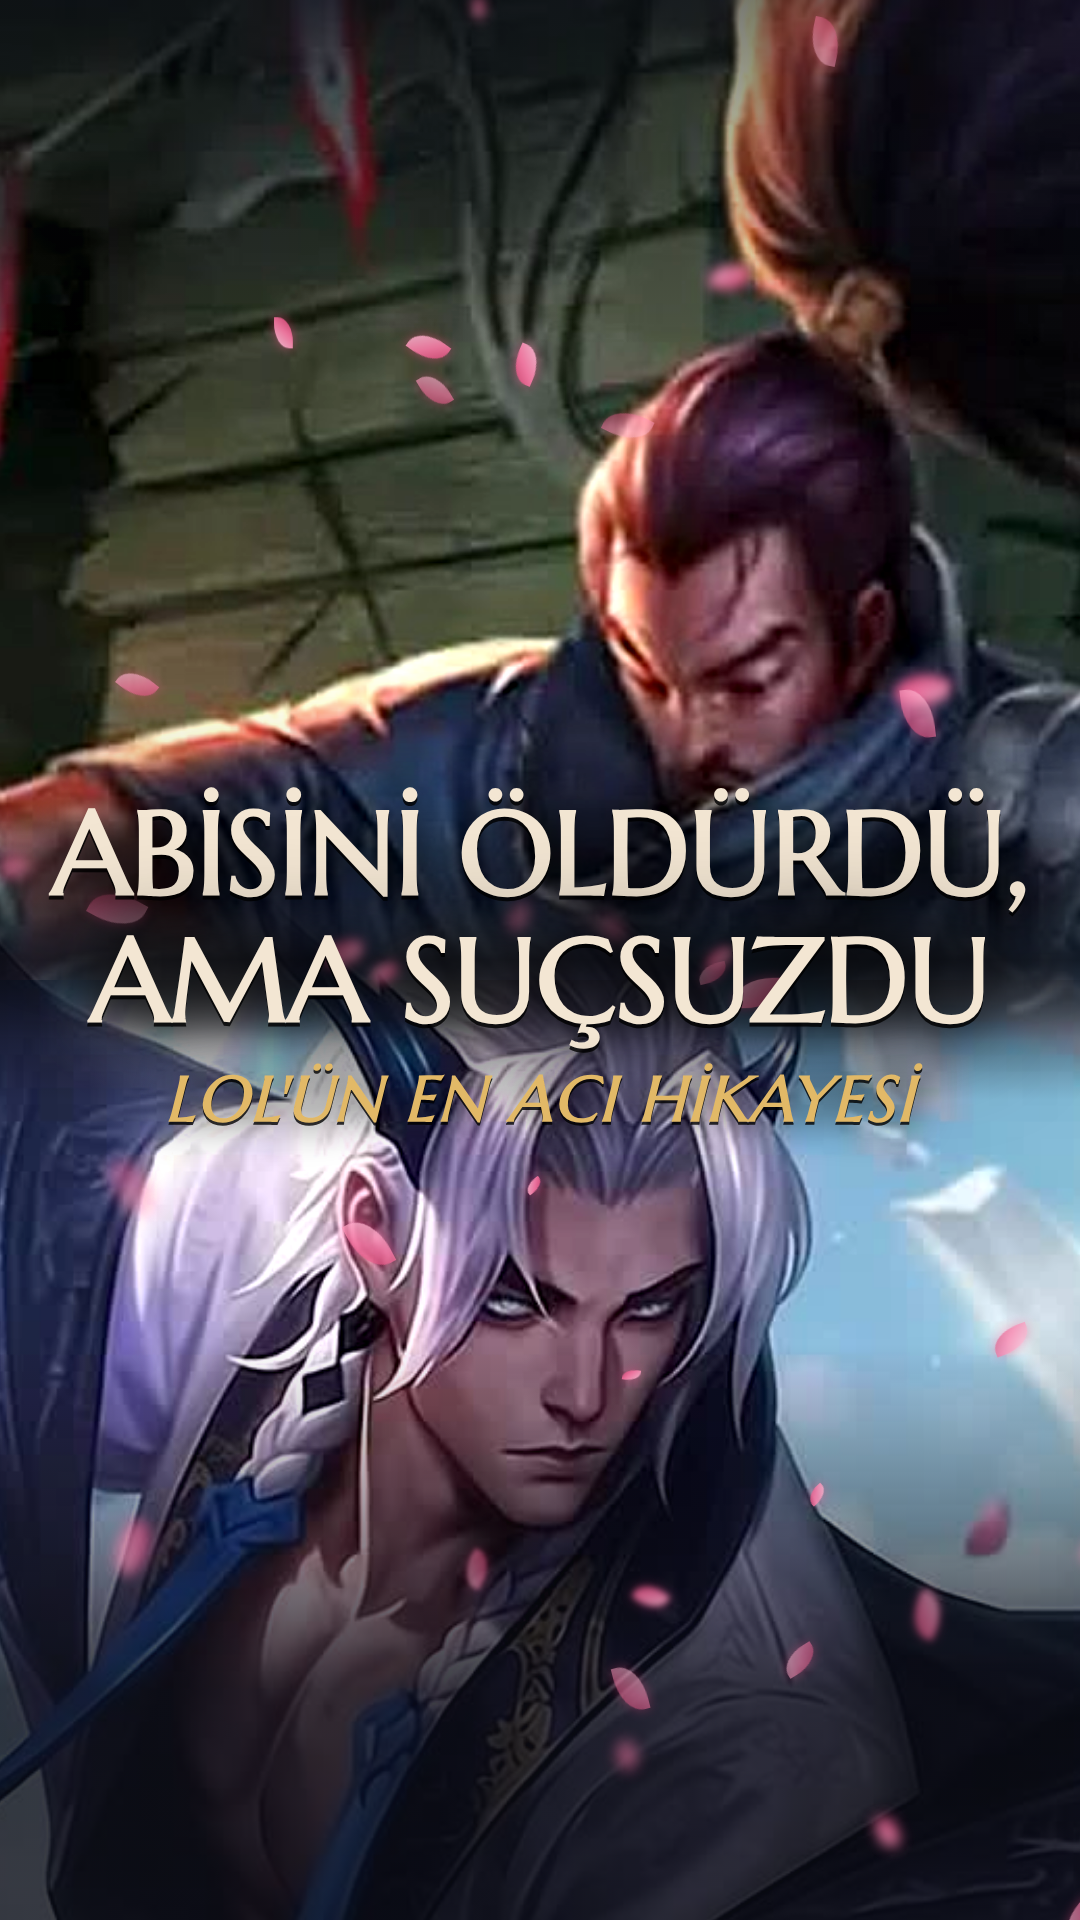
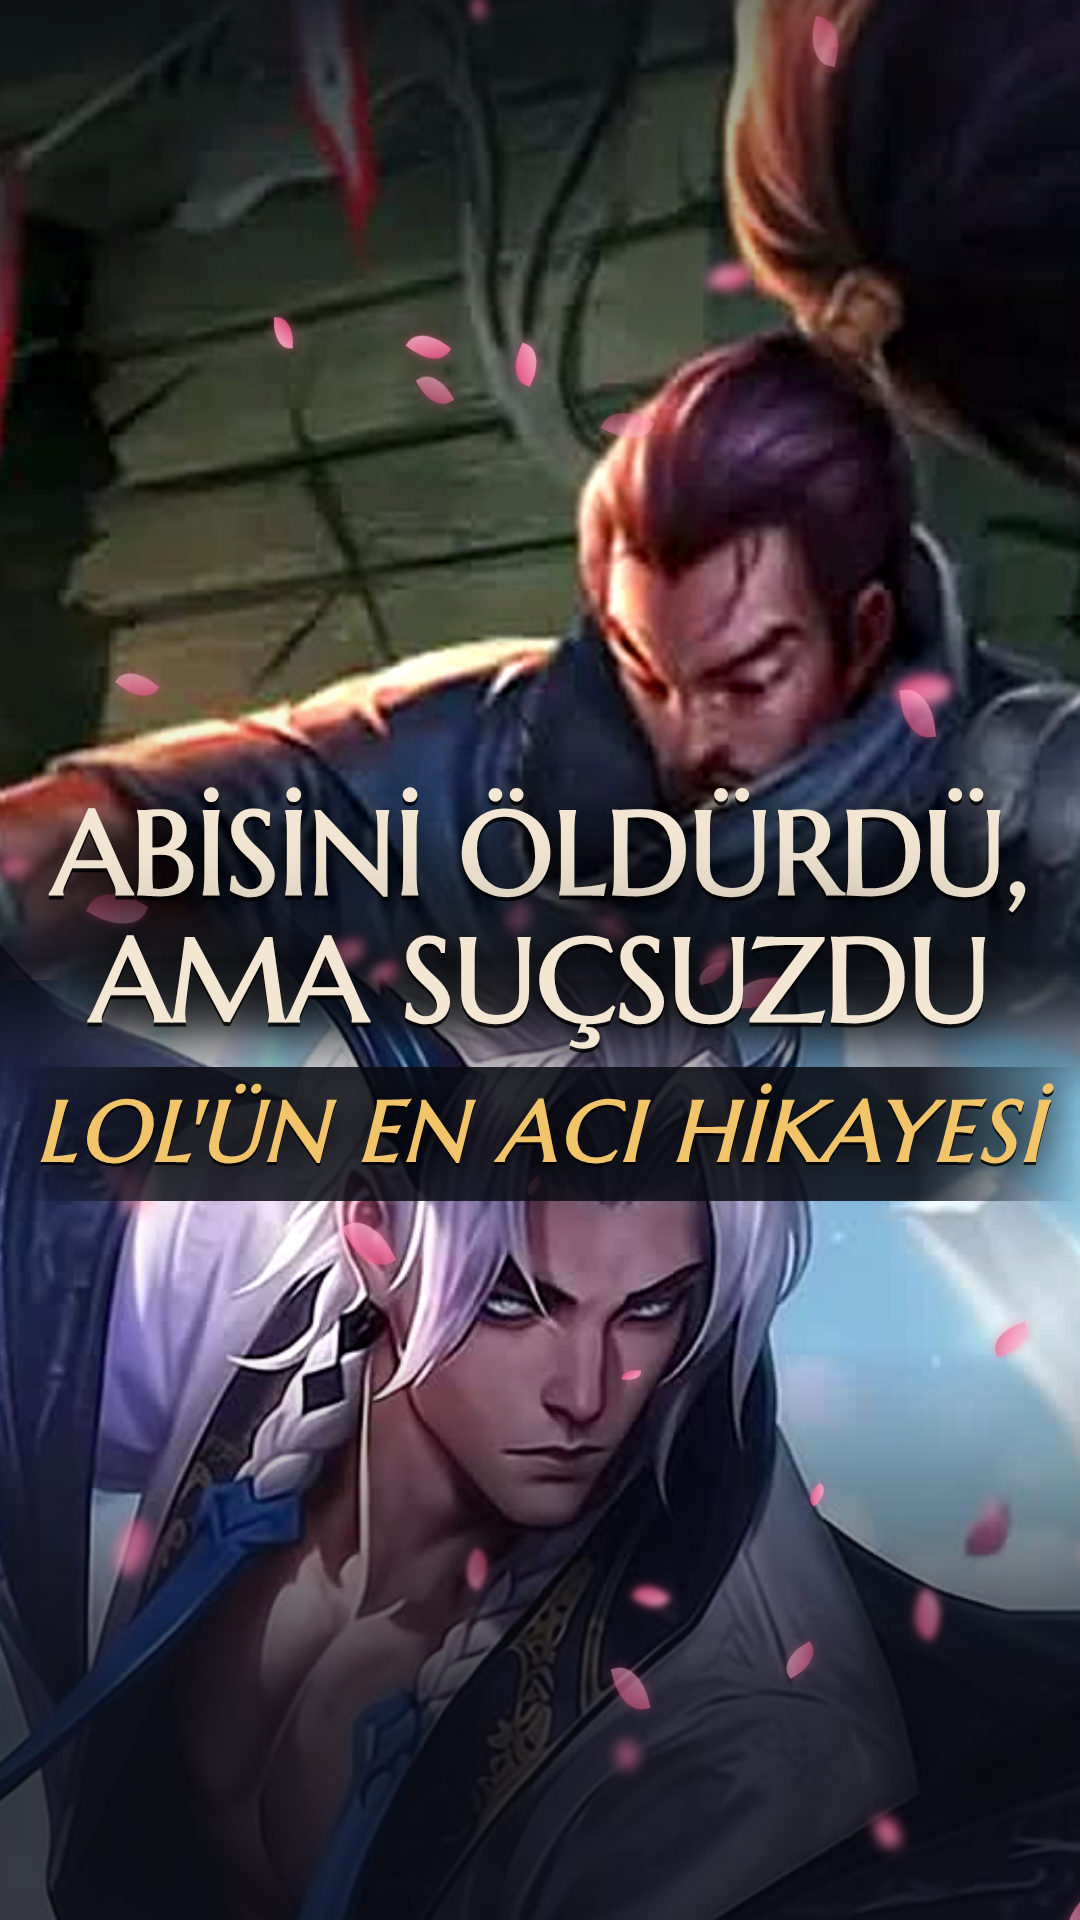
Yone Short: yeni senaryo taslagi; Yasuo Short thumbnail alt yazisi belirgin
Claude-Session: https://claude.ai/code/session_01VWJcfXarfFhihs2wYjUAhz

Changed region(s): [[0.0306, 0.5312, 1.0, 0.625]]

diff --git a/lol/shorts/yone/build/thumb_mc.html b/lol/shorts/yone/build/thumb_mc.html
@@ -30,7 +30,7 @@ html,body{margin:0;background:#000}
  <div style="position:absolute;left:0;right:0;top:790px;text-align:center">
   <div class="y" style="font-size:118px">ABİSİNİ ÖLDÜRDÜ,</div>
   <div class="y" style="font-size:118px">AMA SUÇSUZDU</div>
-  <div class="sub" style="font-size:64px;margin-top:14px">LOL'ÜN EN ACI HİKAYESİ</div>
+  <div style="display:inline-block;margin-top:22px;padding:10px 34px 16px;background:linear-gradient(90deg,rgba(10,12,20,0),rgba(10,12,20,.85) 15%,rgba(10,12,20,.85) 85%,rgba(10,12,20,0))"><div class="sub" style="font-size:86px;color:#F2C46A;-webkit-text-stroke:2.2px #F2C46A">LOL'ÜN EN ACI HİKAYESİ</div></div>
  </div>
 </div>
 <script>
